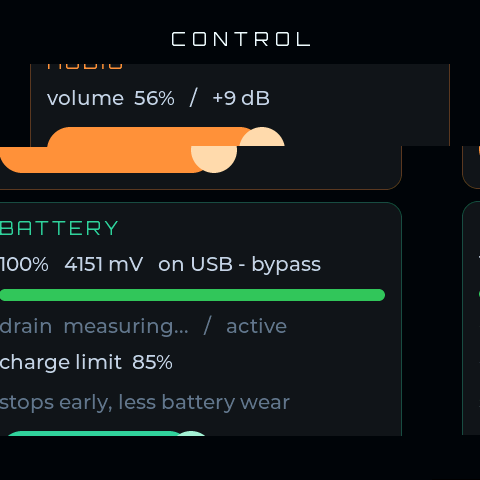
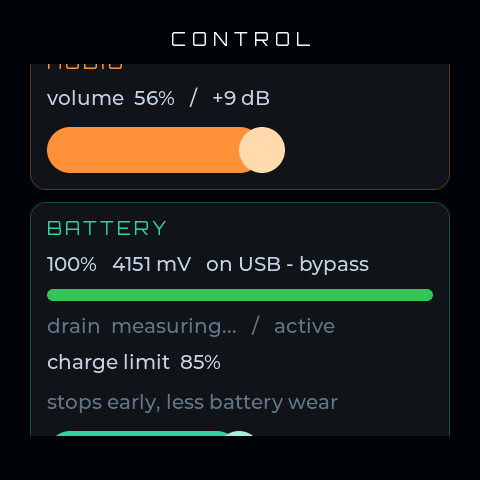
README: caption every screen, restore a clean CONTROL shot
The gallery was seven unlabeled dark squares; now each screen carries its
name and a one-line what-you-are-looking-at. The CONTROL image was the
crash-truncated second walk pass - cards shifted against each other, the
slider smeared - replaced with the intact first-pass frame recovered by
cutting the capture log at the panic.

Claude-Session: https://claude.ai/code/session_01KUnH916ooMJfHpnx1gqRu6

diff --git a/README.md b/README.md
@@ -7,10 +7,10 @@ A small operating system for a cube-shaped ESP32-S3 device with a round-cornered
 A cube has facets; so does this. Apps are faces of one system rather than
 separate firmwares, and only the one you are looking at costs any RAM.
 
-<p align="center">
-  <img src="docs/images/lock.png" width="300" alt="Lock screen, now playing" />
-  <img src="docs/images/lock_ring.png" width="300" alt="Lock screen" />
-</p>
+<table align="center"><tr>
+<td align="center"><img src="docs/images/lock.png" width="300" alt="Lock screen, now playing" /><br/><b>Lock screen</b><br/><sub>with the now-playing card while Spotify is active</sub></td>
+<td align="center"><img src="docs/images/lock_ring.png" width="300" alt="Lock screen" /><br/><b>Lock screen</b><br/><sub>clock, date, battery ring over the day's wallpaper</sub></td>
+</tr></table>
 
 ## What it is
 
@@ -61,25 +61,24 @@ the duration and restores it however the session ends. See
 
 ## Screens
 
-<p align="center">
-  <img src="docs/images/music.png" width="180" alt="MUSIC" />
-  <img src="docs/images/music_liked.png" width="180" alt="MUSIC, liked" />
-  <img src="docs/images/devices.png" width="180" alt="Device picker" />
-</p>
-<p align="center">
-  <img src="docs/images/control.png" width="180" alt="CONTROL" />
-  <img src="docs/images/focus.png" width="180" alt="FOCUS" />
-  <img src="docs/images/days.png" width="180" alt="DAYS" />
-</p>
-<p align="center">
-  <img src="docs/images/bezel.png" width="300" alt="Bezel pop-out on a key press" />
-</p>
+<table align="center"><tr>
+<td align="center"><img src="docs/images/music.png" width="180" alt="MUSIC" /><br/><b>MUSIC</b><br/><sub>now playing; volume slider being raised to 100</sub></td>
+<td align="center"><img src="docs/images/music_liked.png" width="180" alt="MUSIC, liked" /><br/><b>MUSIC</b><br/><sub>track liked — the heart fills red</sub></td>
+<td align="center"><img src="docs/images/devices.png" width="180" alt="Device picker" /><br/><b>MUSIC · devices</b><br/><sub>pick which speaker or computer plays</sub></td>
+</tr><tr>
+<td align="center"><img src="docs/images/control.png" width="180" alt="CONTROL" /><br/><b>CONTROL</b><br/><sub>settings cards: audio, battery, charge limit</sub></td>
+<td align="center"><img src="docs/images/focus.png" width="180" alt="FOCUS" /><br/><b>FOCUS</b><br/><sub>rotate the cube to pick 60/30/10/5, tap to start</sub></td>
+<td align="center"><img src="docs/images/days.png" width="180" alt="DAYS" /><br/><b>DAYS</b><br/><sub>countdown with a colour-shifting progress bar</sub></td>
+</tr></table>
 
-That last one is the bezel pop-out: press a side key and the black bezel
-swells into the screen. Every image here was taken by the device itself —
-hold LEFT+RIGHT and it saves a screenshot of its own framebuffer to the card
-(see CLAUDE.md, *Autonomous hardware verification*). No camera, no emulator;
-these are the real pixels.
+<table align="center"><tr>
+<td align="center"><img src="docs/images/bezel.png" width="300" alt="Bezel pop-out" /><br/><b>Bezel pop-out</b><br/><sub>press a side key and the black bezel swells into the screen</sub></td>
+</tr></table>
+
+Every image here was taken by the device itself — hold LEFT+RIGHT and it
+saves a screenshot of its own framebuffer to the card (see CLAUDE.md,
+*Autonomous hardware verification*). No camera, no emulator; these are the
+real pixels.
 
 <!-- drawer screenshot: regenerate via the harness after the scrollable-drawer
      rework lands - the current drawer is about to change shape. -->
